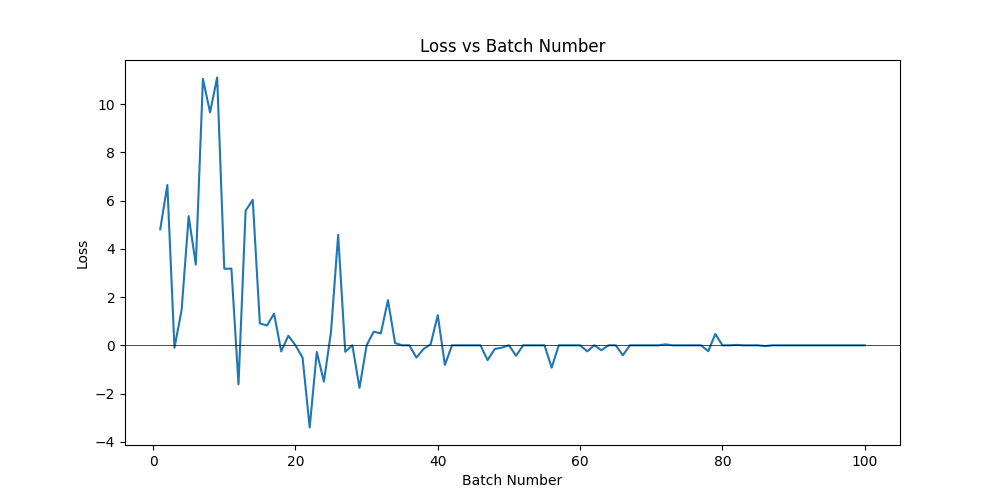
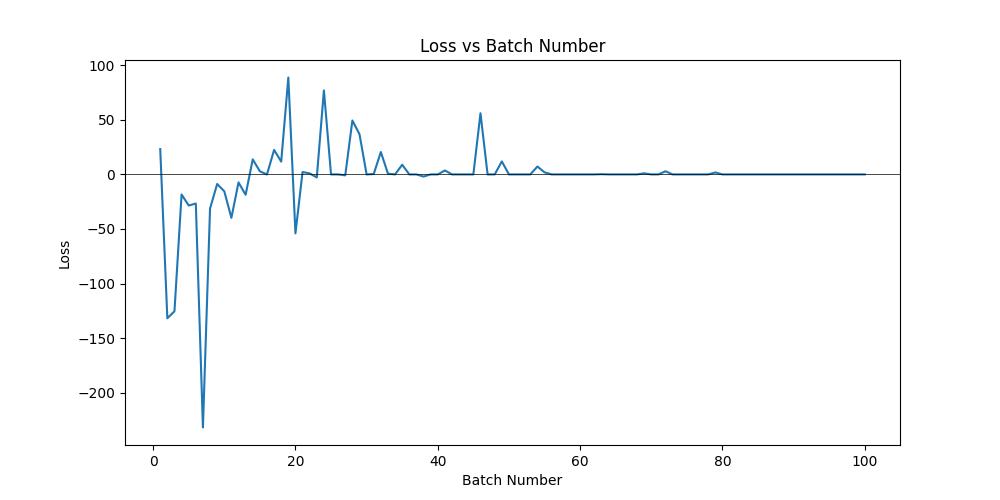
Track returns, not loss. Fixed problem with lstm. Identified problem with modifying envs and exprNodes in-place. Need to fix.

diff --git a/src/model/model.py b/src/model/model.py
@@ -40,24 +40,32 @@ class BinaryTreeLSTM(nn.Module):
         self.hidden_size = hidden_size
         self.lstm = nn.LSTM(input_size, 2 * hidden_size, *lstmargs, **lstmkwargs)
 
-    def forward(self, input: "ExprNode", depth=inf) -> "ExprNode":
-        if input.a is None or input.b is None or depth < 0:
-            if depth < 0:
-                return input
-            input.hidden = torch.zeros((1, self.hidden_size))
-            input.cell = torch.zeros((1, self.hidden_size))
+    def forward(self, input: ExprNode, depth=inf) -> ExprNode:
+        if depth < 0:
             return input
         input.a, input.b = (
-            self(input.a, depth=depth - 1),
-            self(input.b, depth=depth - 1),
+            self(input.a, depth=depth - 1) if input.a is not None else None,
+            self(input.b, depth=depth - 1) if input.b is not None else None,
         )
         _, (input.hidden, input.cell) = self.lstm(
             input.embedding,
-            (
-                torch.cat((input.a.hidden, input.b.hidden), dim=1),
-                torch.cat((input.a.cell, input.b.cell), dim=1),
-            ),
-        )
+                (
+                    torch.cat(
+                        (
+                            input.a.hidden if input.a is not None else torch.zeros((1, self.hidden_size)),
+                            input.b.hidden if input.b is not None else torch.zeros((1, self.hidden_size)),
+                        ),
+                        dim=-1
+                    ),
+                    torch.cat(
+                        (
+                            input.a.cell if input.a is not None else torch.zeros((1, self.hidden_size)),
+                            input.b.cell if input.b is not None else torch.zeros((1, self.hidden_size)),
+                        ),
+                        dim=-1
+                    ),
+                ),
+            )
         input.hidden, input.cell = (
             v[:, : self.hidden_size] for v in (input.hidden, input.cell)
         )  # Truncated to hidden size. Figure out how to use the other half, or avoid computing it.
@@ -67,7 +75,7 @@ class BinaryTreeLSTM(nn.Module):
 
 class SympleAgent(nn.Module):
     """
-    Currently only actor, no critic. Need to implement: training
+    Currently only actor, no critic.
     """
 
     def __init__(
@@ -76,6 +84,8 @@ class SympleAgent(nn.Module):
         embedding_size: int,
         vocab_size: int = VOCAB_SIZE,
         num_ops=NUM_OPS,
+        ffn_n_layers: int = 1,
+        lstm_n_layers: int = 1,
     ):
         super(SympleAgent, self).__init__()
         self.hidden_size = hidden_size
@@ -83,8 +93,8 @@ class SympleAgent(nn.Module):
         self.vocab_size = vocab_size
         self.num_ops = num_ops
         self.embedding = SympleEmbedding(self.vocab_size, self.embedding_size)
-        self.lstm = BinaryTreeLSTM(self.embedding_size, self.hidden_size)
-        self.actor = FFN(self.hidden_size, self.hidden_size, self.num_ops)
+        self.lstm = BinaryTreeLSTM(self.embedding_size, self.hidden_size, num_layers=lstm_n_layers)
+        self.actor = FFN(self.hidden_size, self.hidden_size, self.num_ops, n_layers=ffn_n_layers)
 
         self.temperature = 3
 
@@ -109,8 +119,8 @@ class SympleAgent(nn.Module):
                     ]
                 ] = None
                 ) -> Union[
-                    Tuple[List[float], List[torch.scalar_tensor], Symple],
-                    Tuple[List[float], List[torch.scalar_tensor], List[torch.scalar_tensor], Symple],
+                    Tuple[List[float], List[torch.Tensor], Symple],
+                    Tuple[List[float], List[torch.Tensor], List[torch.Tensor], Symple],
                     Symple
                 ]:
         if behavior_policy:

diff --git a/src/model/training.py b/src/model/training.py
@@ -2,9 +2,9 @@
 import torch
 from src.model.model import SympleAgent
 from src.model.environment import Symple
-from typing import List, Callable, Union, Optional
+from typing import List, Callable, Union, Optional, Tuple
 
-def compute_loss(rewards: List[float], action_log_probs: List[torch.Tensor], gamma: float = 1.) -> torch.Tensor:
+def compute_loss(rewards: List[float], action_log_probs: List[torch.Tensor], gamma: float = 1.) -> Tuple[torch.Tensor, float]:
     """
     Compute the loss for Monte Carlo training.
     
@@ -30,9 +30,11 @@ def compute_loss(rewards: List[float], action_log_probs: List[torch.Tensor], gam
     action_log_probs = torch.stack(action_log_probs)
     loss = -(returns * action_log_probs).sum()
     
-    return loss
+    return loss, returns[0].item()
 
-def compute_loss_off_policy(rewards: List[float], target_policy_probs: List[torch.Tensor], behavior_policy_probs: List[torch.Tensor], gamma: float = 1.) -> torch.Tensor:
+def compute_loss_off_policy(
+        rewards: List[float], target_policy_probs: List[torch.Tensor], behavior_policy_probs: List[torch.Tensor], gamma: float = 1.
+) -> torch.Tensor:
     """
     Compute the loss for off-policy Monte Carlo training.
     
@@ -45,22 +47,17 @@ def compute_loss_off_policy(rewards: List[float], target_policy_probs: List[torc
     Returns:
     torch.Tensor: The computed loss.
     """
-    T = len(rewards)
-    returns = torch.zeros(T, device=target_policy_probs[0].device)
-    
-
     # Compute importance sampling ratios
 
     target_policy_probs = torch.stack(target_policy_probs)
     behavior_policy_probs = torch.stack(behavior_policy_probs)
     importance_ratios = target_policy_probs / behavior_policy_probs.detach() # Detach to prevent gradient flow
     # Compute discounted returns using importance sampling
-    future_return = torch.zeros(1, device=target_policy_probs[0].device)
-    for t in reversed(range(T)):
-        future_return = importance_ratios[t] * (rewards[t] + gamma * future_return)
-        returns[t] = future_return
+    total_return = torch.zeros(1, device=target_policy_probs[0].device)
+    for t in reversed(range(len(rewards))):
+        total_return = importance_ratios[t] * (rewards[t] + gamma * total_return)
 
-    loss = -returns.sum()
+    loss = -total_return
     
     return loss
 
@@ -85,19 +82,20 @@ def train_on_batch(
     agent.train()
     optimizer.zero_grad()
 
-    avg_loss = 0.0
+    avg_return = 0.0
     for env in envs:
         if behavior_policy:
             rewards, action_probs, behavior_action_probs, _ = agent(env, behavior_policy = behavior_policy)
             loss = compute_loss_off_policy(rewards, action_probs, behavior_action_probs) / len(envs)
+            total_return = -loss.item()
         else:
             rewards, action_log_probs, _ = agent(env)
-            loss = compute_loss(rewards, action_log_probs) / len(envs)
+            loss, total_return = compute_loss(rewards, action_log_probs) 
+            loss, total_return = loss/len(envs), total_return/len(envs)
         loss.backward()
-        loss = loss.item()
-        avg_loss += loss
+        avg_return += total_return
 
     # Perform optimization step
     optimizer.step()
 
-    return avg_loss
+    return avg_return

diff --git a/src/model/environment.py b/src/model/environment.py
@@ -1,4 +1,4 @@
-from typing import Tuple
+from typing import Tuple, Optional
 
 import torch
 
@@ -98,25 +98,34 @@ class Symple:
 
     def __init__(
         self,
-        expr: "ExprNode",
+        expr: ExprNode,
+        state: Optional[ExprNode] = None,
         time_penalty: float = -0.02,
         node_count_importance_factor: float = 1.0,
+        min_steps: int = 0,
     ):
         self.expr = expr
-        self.state = expr
+        self.state = expr if state is None else state
         self.validity_mask = torch.ones(NUM_OPS, dtype=int)
-        self.update_validity_mask()
         self.time_penalty = time_penalty
         self.node_count_importance_factor = node_count_importance_factor
-
-    def step(self, action: int) -> Tuple[float, bool]:
-        reward = self.time_penalty
-        
-        self.state, node_count_reduction = OPS_MAP[action](self.state)
-        
+        self.min_steps = min_steps
         self.update_validity_mask()
+
+    def step(self, action: int) -> Tuple["Symple", float, bool]:
+        reward = self.time_penalty
+            
+        state, node_count_reduction = OPS_MAP[action](self.state)
+        
+        new_env = Symple(
+            self.expr, state, self.time_penalty, self.node_count_importance_factor,
+            max(self.min_steps - 1, 0)
+        )
+        
         reward += self.node_count_importance_factor * node_count_reduction
-        return reward, action == OP_FINISH
+        
+
+        return new_env, reward, action == OP_FINISH
 
     def update_validity_mask(self) -> None:
         self.validity_mask[OP_MOVE_UP] = bool(self.state.p)
@@ -128,8 +137,15 @@ class Symple:
         self.validity_mask[OP_UNDISTRIBUTE_B] = self.state.can_undistribute_b()
         self.validity_mask[OP_REDUCE_UNIT] = self.state.can_reduce_unit()
         self.validity_mask[OP_CANCEL] = self.state.can_cancel()
-        self.validity_mask[OP_FINISH] = True
+        self.validity_mask[OP_FINISH] = self.min_steps <= 0
+    
+    def reset(self) -> None:
+        self.state = self.expr
+        self.min_steps = self.min_steps_initial
+        for en in self.state.topological_sort():
+            en.reset_cache()
 
+    @staticmethod
     @staticmethod
     def from_sympy(expr: sp.Expr, **kwargs) -> "Symple":
         return Symple(ExprNode.from_sympy(expr), **kwargs)

diff --git a/train/train.py b/train/train.py
@@ -36,11 +36,12 @@ df['symple_envs'] = df['expr'].apply(Symple.from_sympy,
 
 
 # Initialize the agent and optimizer
-hidden_size = 64
-embedding_size = 32
+hidden_size = 128
+embedding_size = 16
 agent = SympleAgent(
     hidden_size, embedding_size,
-
+    ffn_n_layers=2,
+    # lstm_n_layers=2,
 )
 optimizer = torch.optim.Adam(agent.parameters(), lr=0.001)
 
@@ -51,7 +52,7 @@ batch_size = 64
 
 total_time = 0
 
-losses = []
+returns = []
 total_time = 0
 
 
@@ -68,7 +69,7 @@ for epoch in range(num_epochs):
         
         # Measure time for training on the batch
         start_time = time.time()
-        avg_loss = train_on_batch(agent, batch, optimizer,
+        avg_return = train_on_batch(agent, batch, optimizer,
                                   behavior_policy=random_policy
                                   )
         end_time = time.time()
@@ -76,20 +77,20 @@ for epoch in range(num_epochs):
         batch_time = end_time - start_time
         total_time += batch_time
         
-        losses.append(avg_loss)
+        returns.append(avg_return)
         
         batch_number = epoch * (len(shuffled_data) // batch_size) + (i // batch_size) + 1
-        print(f"Epoch {epoch + 1}/{num_epochs}, Batch {batch_number}, Loss: {avg_loss:.4f}, Batch Time: {batch_time:.4f} seconds")
+        print(f"Epoch {epoch + 1}/{num_epochs}, Batch {batch_number}, Return: {avg_return:.4f}, Batch Time: {batch_time:.4f} seconds")
 
 avg_time_per_batch = total_time / (num_epochs * (len(df) // batch_size))
 print(f"Training completed. Average time per batch: {avg_time_per_batch:.4f} seconds")
 
 # Plot the loss history
 plt.figure(figsize=(10, 5))
-plt.plot(range(1, len(losses) + 1), losses)
-plt.title('Loss vs Batch Number')
+plt.plot(range(1, len(returns) + 1), returns)
+plt.title('Return vs Batch Number')
 plt.xlabel('Batch Number')
-plt.ylabel('Loss')
+plt.ylabel('Return')
 plt.axhline(y=0, color='k', linestyle='-', linewidth=0.5)  # Add horizontal line at y=0
-plt.savefig(ROOT_DIR + '/train/loss_history.png')
+plt.savefig(ROOT_DIR + '/train/return_history.png')
 

diff --git a/src/model/tree.py b/src/model/tree.py
@@ -129,6 +129,11 @@ class ExprNode(object):
 
         return en
 
+    def reset(self)->None:
+        self.embedding = None
+        self.hidden = None
+        self.cell = None
+
     def to_tensor(self, device=DEFAULT_DEVICE, dtype=DEFAULT_DTYPE) -> torch.Tensor:
         tensor = torch.zeros((2,), device=device, dtype=dtype)
         tensor[0] = self.type
@@ -278,7 +283,7 @@ class ExprNode(object):
                 return one
             elif b == one:
                 return self.a
-            elif a == zero:
+            elif a == zero and b.type == INT_PO_TYPE and b.arg >0:
                 return zero
             elif a == one:
                 return one

diff --git a/src/model/architecture.md b/src/model/architecture.md
@@ -84,6 +84,10 @@ The actions come in a few types:
 
 6. What are the atomic operations and how to combine them? 
 
+# Problems
+
+1. Resetting environment
+
 # Possible imporvements
 
 1. global state information
